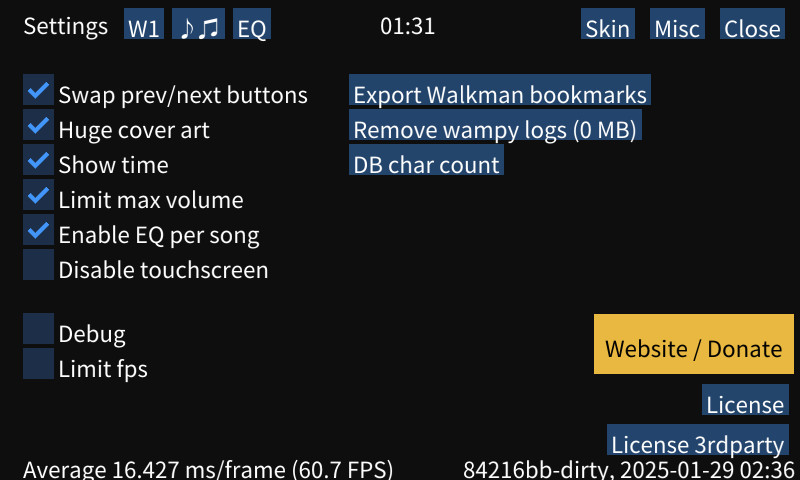
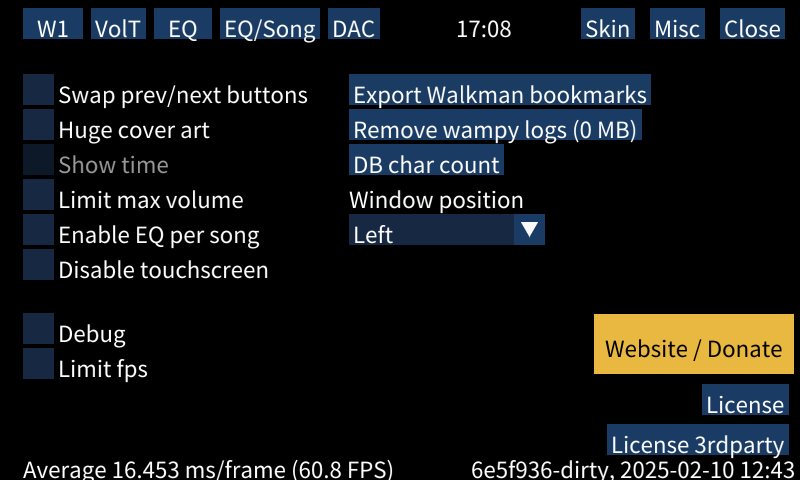
window position switch

diff --git a/src/skin.h b/src/skin.h
@@ -190,6 +190,10 @@ struct Skin {
         {"donate", ActiveFilterTab_Donate},
     };
 
+    ImVec2 *windowOffset;
+    ImVec2 screenMode;
+    ImVec2 windowSize;
+
     struct timespec ssfwUpdateDelay = {0, 500000000};
 
     void WithWinampSkinDir(const std::string &d) { winampSkinDirectories.push_back(d); }
@@ -698,10 +702,28 @@ struct Skin {
                 connector->FeatureSetMaxVolume(config->features.limitVolume);
             }
 
+            ImGui::TableNextColumn();
+            ImGui::TableNextColumn();
+            ImGui::Text("Window position");
+
             ImGui::TableNextRow();
             ImGui::TableNextColumn();
             if (ImGui::Checkbox("Enable EQ per song", &config->features.eqPerSong)) {
                 config->Save();
+            }
+
+            ImGui::TableNextColumn();
+            ImGui::TableNextColumn();
+            if (ImGui::BeginCombo("##windowPos", WindowOffsetToString.at(config->windowOffset).c_str(), ImGuiComboFlags_HeightRegular)) {
+                for (const auto &entry : WindowOffsetToString) {
+                    if (ImGui::Selectable(entry.second.c_str(), false)) {
+                        config->windowOffset = entry.first;
+                        DLOG("selected offset %s\n", WindowOffsetToString.at(config->windowOffset).c_str());
+                        config->Save();
+                        CalcWindowPos();
+                    }
+                }
+                ImGui::EndCombo();
             }
 
             ImGui::TableNextRow();
@@ -2204,7 +2226,7 @@ struct Skin {
 
         res = res / 1024 / 1024;
 
-        logCleanupButtonLabel = "Remove wampy logs (" + std::to_string(res) + " MB)";
+        logCleanupButtonLabel = "Remove Wampy logs (" + std::to_string(res) + " MB)";
     }
 
     void SetActiveEqFilter(const std::string &v) {
@@ -3066,6 +3088,26 @@ struct Skin {
         ImGui::SetCursorPos(curpos);
         if (ImGui::InvisibleButton("##removeEqStatus", ImVec2(186 * 3 + ImGui::GetStyle().ItemSpacing.x + 3, 60))) {
             eqStatus = "";
+        }
+    }
+
+    void CalcWindowPos() const {
+        assert(windowOffset);
+        switch (config->windowOffset) {
+        case EWindowOffset_UNKNOWN:
+            break;
+        case EWindowOffset_LEFT:
+            windowOffset->x = 0;
+            windowOffset->y = 0;
+            break;
+        case EWindowOffset_CENTER:
+            windowOffset->x = (screenMode.x - windowSize.x) / 2;
+            windowOffset->y = 0;
+            break;
+        case EWindowOffset_RIGHT:
+            windowOffset->x = screenMode.x - windowSize.x;
+            windowOffset->y = 0;
+            break;
         }
     }
 };

diff --git a/src/config.cpp b/src/config.cpp
@@ -4,6 +4,9 @@
 #include <libgen.h>
 #include <sys/stat.h>
 
+std::map<EWindowOffset, std::string> WindowOffsetToString = {
+    {EWindowOffset_LEFT, "Left"}, {EWindowOffset_CENTER, "Center"}, {EWindowOffset_RIGHT, "Right"}};
+
 namespace AppConfig {
 
     enum ConfigErrors {
@@ -33,6 +36,7 @@ namespace AppConfig {
         ini["wampy"]["limitFPS"] = std::to_string(limitFPS);
         ini["wampy"]["debug"] = std::to_string(debug);
         ini["wampy"]["forceConnector"] = forceConnector;
+        ini["wampy"]["windowOffset"] = std::to_string(windowOffset);
 
         ini["cassette:mp3_128"].set({{"tape", cassette.Get(Tape::MP3_128)->tape}, {"reel", cassette.Get(Tape::MP3_128)->reel}});
         ini["cassette:mp3_160"].set({{"tape", cassette.Get(Tape::MP3_160)->tape}, {"reel", cassette.Get(Tape::MP3_160)->reel}});
@@ -83,6 +87,7 @@ namespace AppConfig {
         activeSkin = WINAMP;
         MPDSocketPath = MPDDefaultAddress;
         forceConnector = "";
+        windowOffset = EWindowOffset_LEFT;
 
         ToIni();
     }
@@ -111,6 +116,16 @@ namespace AppConfig {
         // NOLINTEND
 
         forceConnector = ini["wampy"]["forceConnector"];
+
+        auto windowOffsetTemp = std::atoi(ini["wampy"]["windowOffset"].c_str());
+        switch (windowOffsetTemp) {
+        case EWindowOffset_LEFT:
+        case EWindowOffset_RIGHT:
+        case EWindowOffset_CENTER:
+            windowOffset = (EWindowOffset)windowOffsetTemp;
+        default:
+            windowOffset = EWindowOffset_LEFT;
+        }
 
         cassette.SetOrDefault(Tape::MP3_128, {ini["cassette:mp3_128"]["tape"], ini["cassette:mp3_128"]["reel"], "MP3 128kbps"});
         cassette.SetOrDefault(Tape::MP3_160, {ini["cassette:mp3_160"]["tape"], ini["cassette:mp3_160"]["reel"], "MP3 160kbps"});

diff --git a/src/main.cpp b/src/main.cpp
@@ -31,6 +31,7 @@
 
 int GLFW_WIDTH = 800.0f;
 int GLFW_HEIGHT = 800.0f;
+ImVec2 screenMode = ImVec2((float)GLFW_WIDTH, (float)GLFW_HEIGHT);
 
 #ifdef DESKTOP
 
@@ -141,6 +142,8 @@ GLFWwindow *CreateWindow() {
         DLOG("mode: %dx%d\n", vmode->width, vmode->height);
         GLFW_WIDTH = vmode->width;
         GLFW_HEIGHT = vmode->width;
+        screenMode.x = (float)vmode->width;
+        screenMode.y = (float)vmode->height;
     }
 
     GLFWwindow *window = glfwCreateWindow(GLFW_WIDTH, GLFW_HEIGHT, title, monitor, nullptr);
@@ -375,6 +378,9 @@ int main(int, char **) {
     skin.power_pressed = &power_pressed;
     skin.hold_value = &hold_value;
     skin.config = &config;
+    skin.windowOffset = &imguiWindowPos;
+    skin.screenMode = screenMode;
+    skin.windowSize = imguiWindowSize;
 
     auto opt = W1::WalkmanOneOptions{};
     W1::ParseSettings(&opt);

diff --git a/src/config.h b/src/config.h
@@ -15,6 +15,15 @@ enum ESkinVariant {
     DIGITAL_CLOCK,
 };
 
+enum EWindowOffset {
+    EWindowOffset_UNKNOWN = 0,
+    EWindowOffset_LEFT = 1,
+    EWindowOffset_CENTER = 2,
+    EWindowOffset_RIGHT = 3,
+};
+
+extern std::map<EWindowOffset, std::string> WindowOffsetToString;
+
 namespace AppConfig {
     struct Misc {
         bool swapTrackButtons = false;
@@ -46,6 +55,7 @@ namespace AppConfig {
         int badBoots{};
         bool limitFPS = false;
         std::string forceConnector{};
+        EWindowOffset windowOffset = EWindowOffset_LEFT;
 
         int FindConfig();
 

diff --git a/USAGE.md b/USAGE.md
@@ -40,11 +40,11 @@
 
 ## Usage
 
-Use "Hold" toggle to enable/disable wampy.
+Use "Hold" toggle to enable/disable Wampy.
 
 <img src="images/switch.png" alt="here is the switch">
 
-While wampy is running, default locking functionality is disabled - buttons and touchscreen are working.
+While Wampy is running, default locking functionality is disabled - buttons and touchscreen are working.
 
 Holding volume button to rapidly change volume doesn't work. Volume is changed per button press in 1% intervals (~2
 points in default player terms).
@@ -423,9 +423,11 @@ this mode, set volume to 120 in default player app and toggle Wampy on.
 
 `Export bookmarks` button saves bookmark files to `wampy/bookmarks/` directory.
 
-`Remove wampy logs` button removes logs from `wampy/log/` directory.
+`Remove Wampy logs` button removes logs from `wampy/log/` directory.
 
 `DB char count` shows amount of unique characters in your database, which impacts loading time.
+
+`Window position` sets window position on devices with bigger screen (WM1A/Z).
 
 `Debug` checkbox enables some logging, which you (the user) don't need. It also shows codec/bitrate when active skin is
 cassette.
